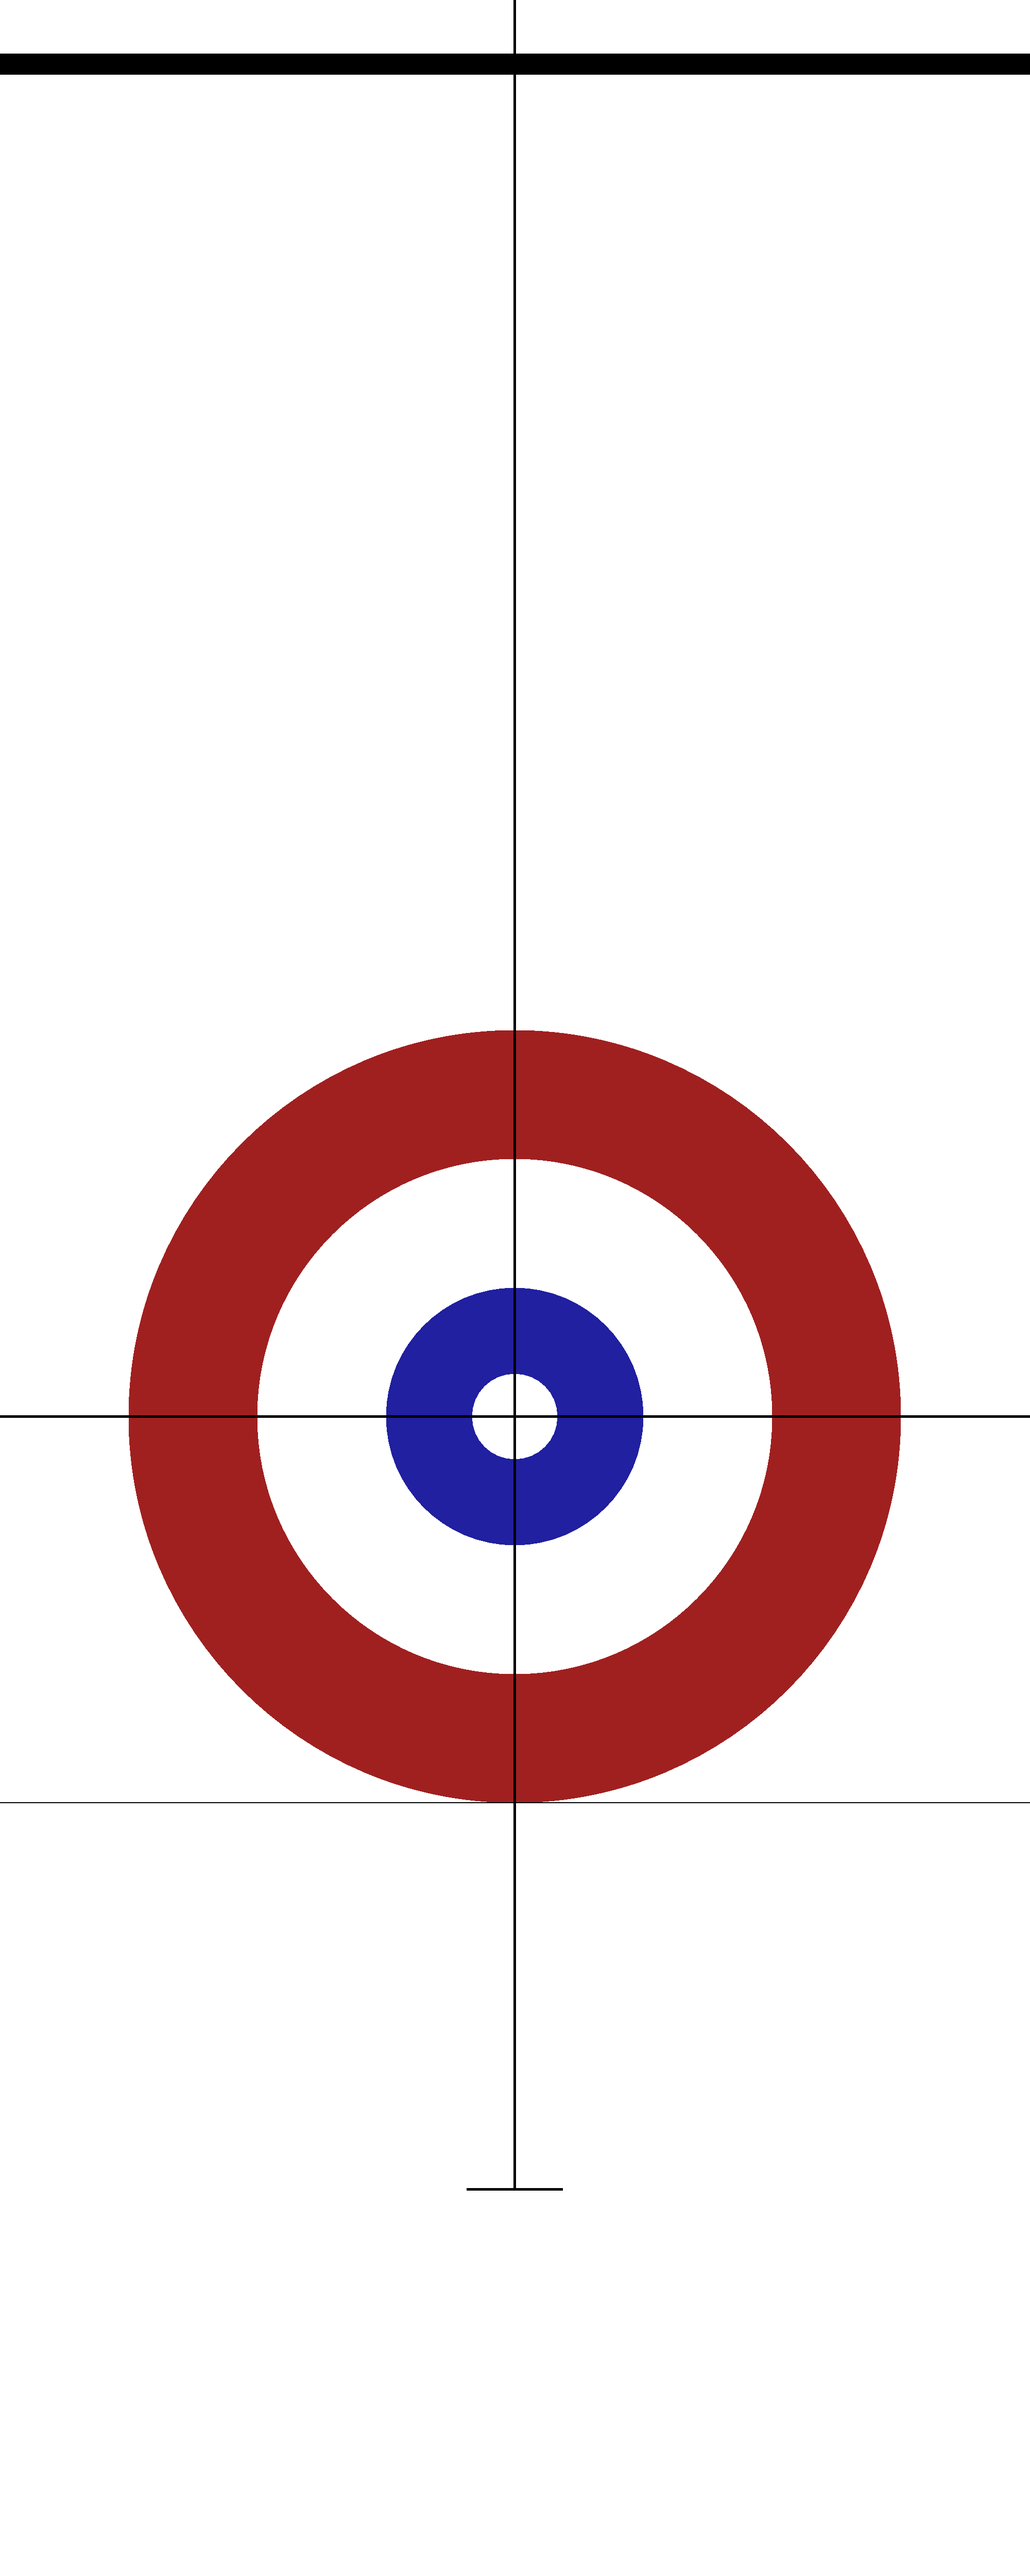
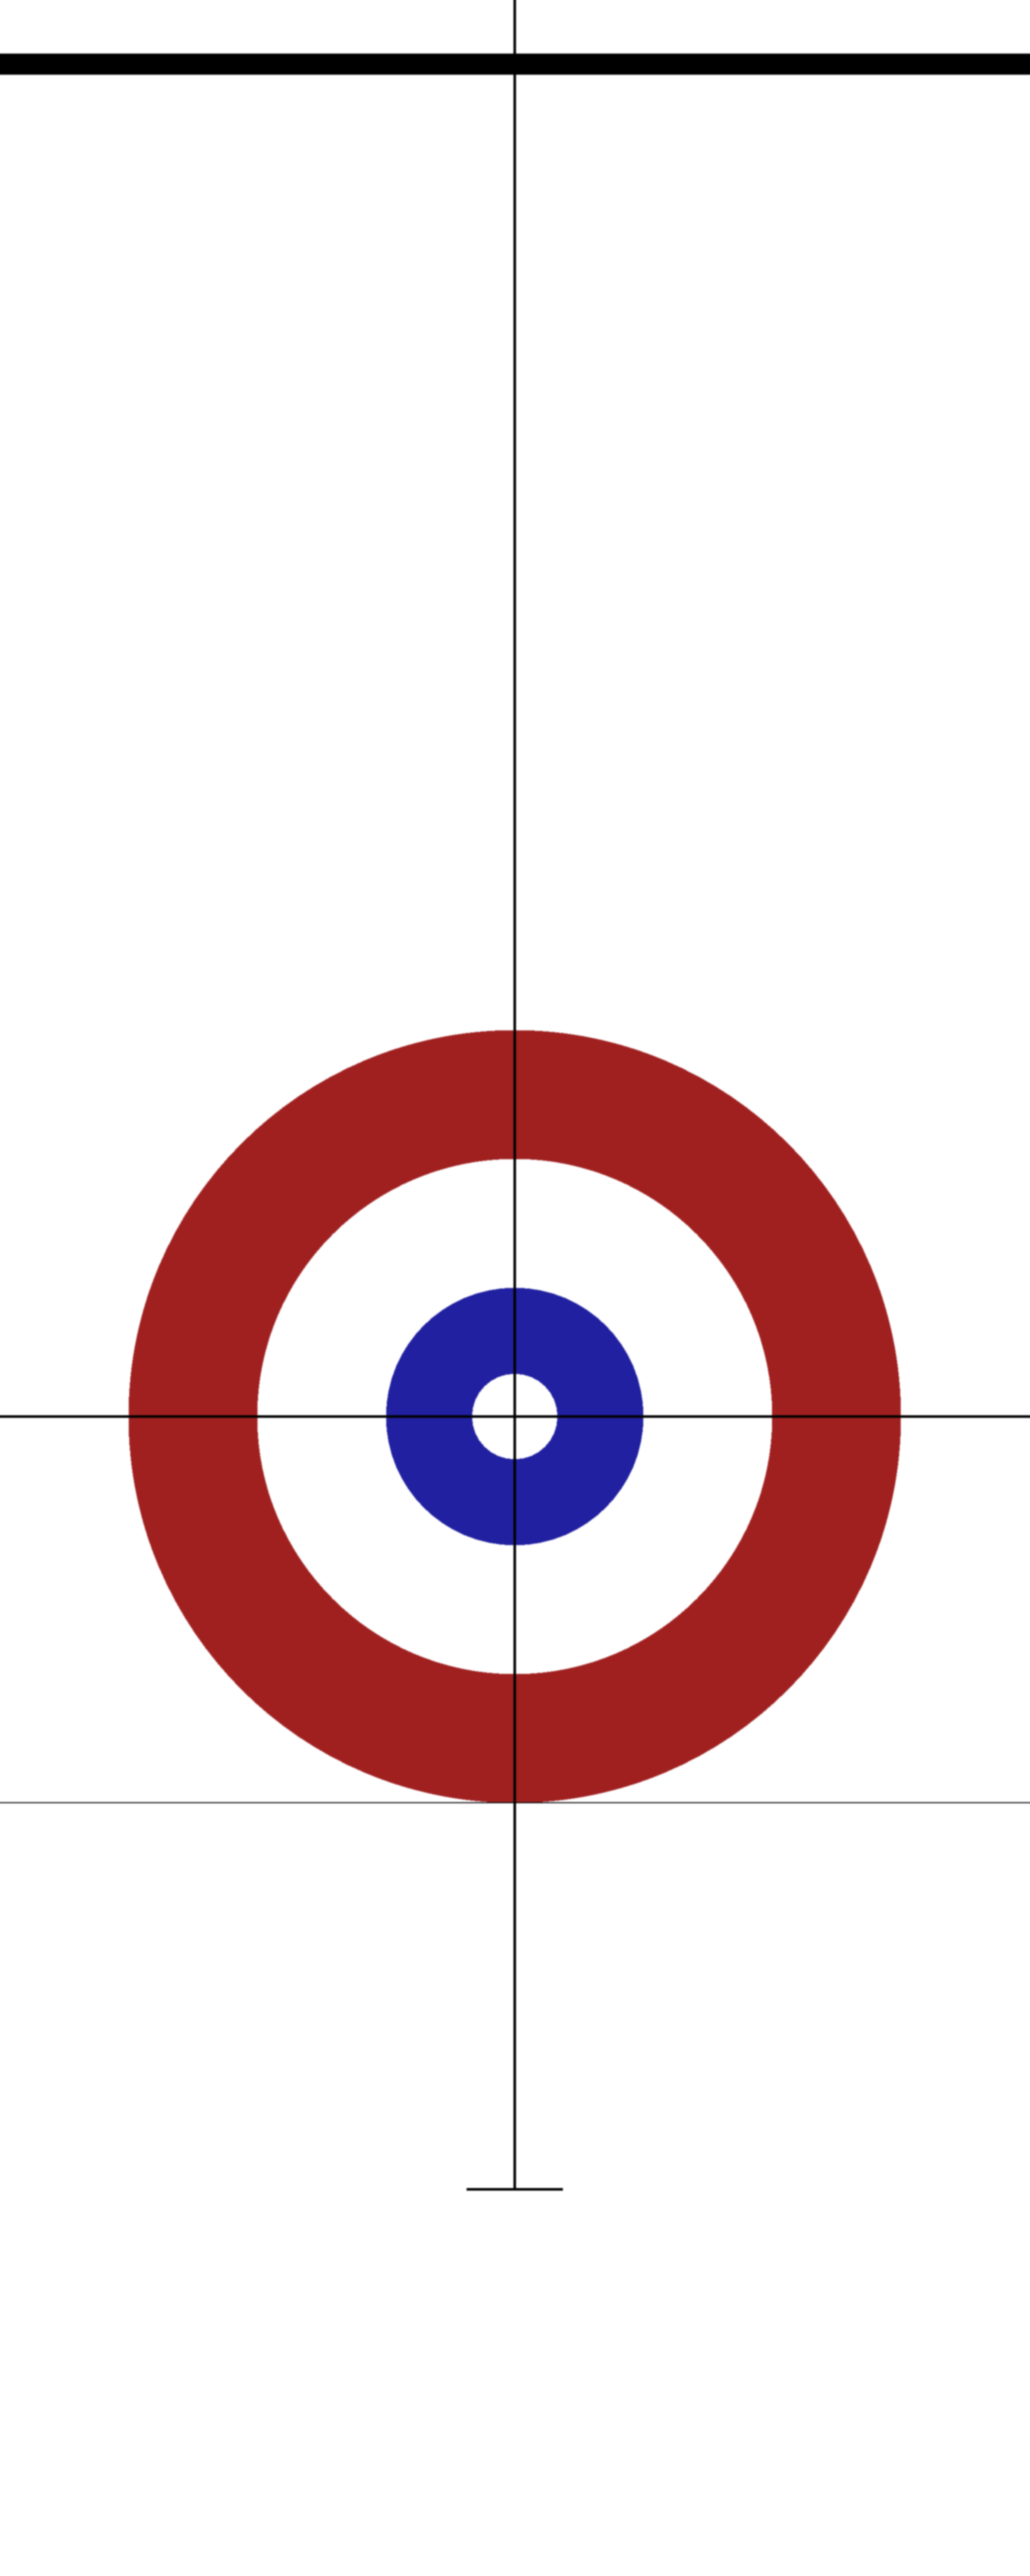
blur rink, add -proxy option to fs

diff --git a/src/index.html b/src/index.html
@@ -7,7 +7,7 @@
   <meta name="viewport" content="initial-scale=1, maximum-scale=1, user-scalable=no" />
   <meta name="apple-mobile-web-app-capable" content="yes" />
   <link rel="stylesheet" href="css/skippy.css">
-  <link rel="stylesheet" href="http://ajax.googleapis.com/ajax/libs/angular_material/1.0.7/angular-material.min.css">
+  <link rel="stylesheet" href="css/angular-material.min.css">
   <title>skippy</title>
  </head>
  <body ng-app="skippy" ng-controller="ctrl" layout="column" >
@@ -70,14 +70,14 @@
    
   </md-content> 
  
-  <script src="http://ajax.googleapis.com/ajax/libs/angularjs/1.5.3/angular.min.js"></script>
-  <script src="http://ajax.googleapis.com/ajax/libs/angularjs/1.5.3/angular-animate.min.js"></script>
-  <script src="http://ajax.googleapis.com/ajax/libs/angularjs/1.5.3/angular-aria.min.js"></script>
-  <script src="http://ajax.googleapis.com/ajax/libs/angularjs/1.5.3/angular-messages.min.js"></script>
-  <script src="http://ajax.googleapis.com/ajax/libs/angular_material/1.0.7/angular-material.min.js"></script>
-  <script src="http://cdnjs.cloudflare.com/ajax/libs/angular-material-icons/0.7.0/angular-material-icons.min.js"></script> 
-  <script src="https://code.jquery.com/pep/0.4.1/pep.js"></script>
-  <script src="http://cdnjs.cloudflare.com/ajax/libs/babylonjs/2.3.0/babylon.max.js"></script>
+  <script src="js/angular.min.js"></script>
+  <script src="js/angular-animate.min.js"></script>
+  <script src="js/angular-aria.min.js"></script>
+  <script src="js/angular-messages.min.js"></script>
+  <script src="js/angular-material.min.js"></script>
+  <script src="js/angular-material-icons.min.js"></script> 
+  <script src="js/pep.min.js"></script>
+  <script src="js/babylon.max.js"></script>
   <script src="js/spline.js"></script>
   <script src="js/ease.js"></script>
   <script src="js/skippy.js"></script>
